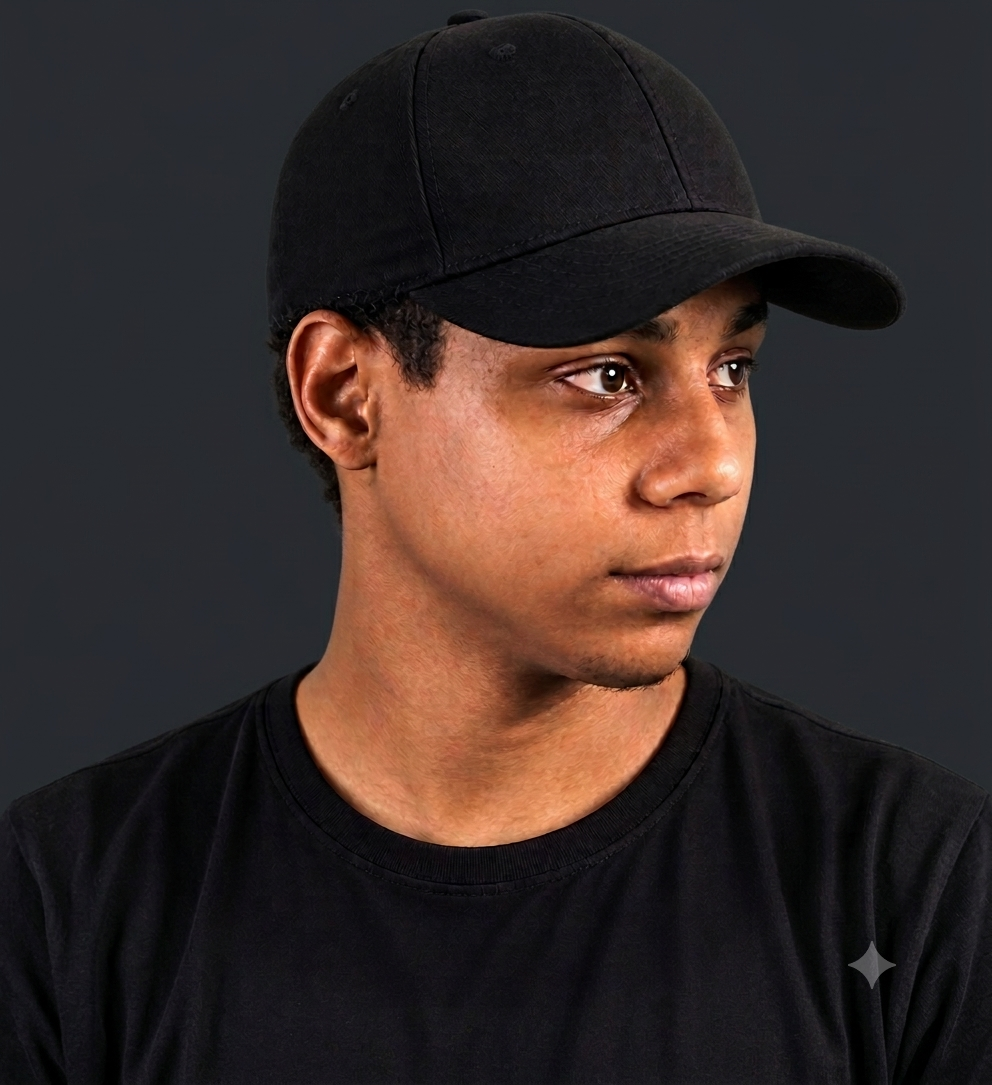
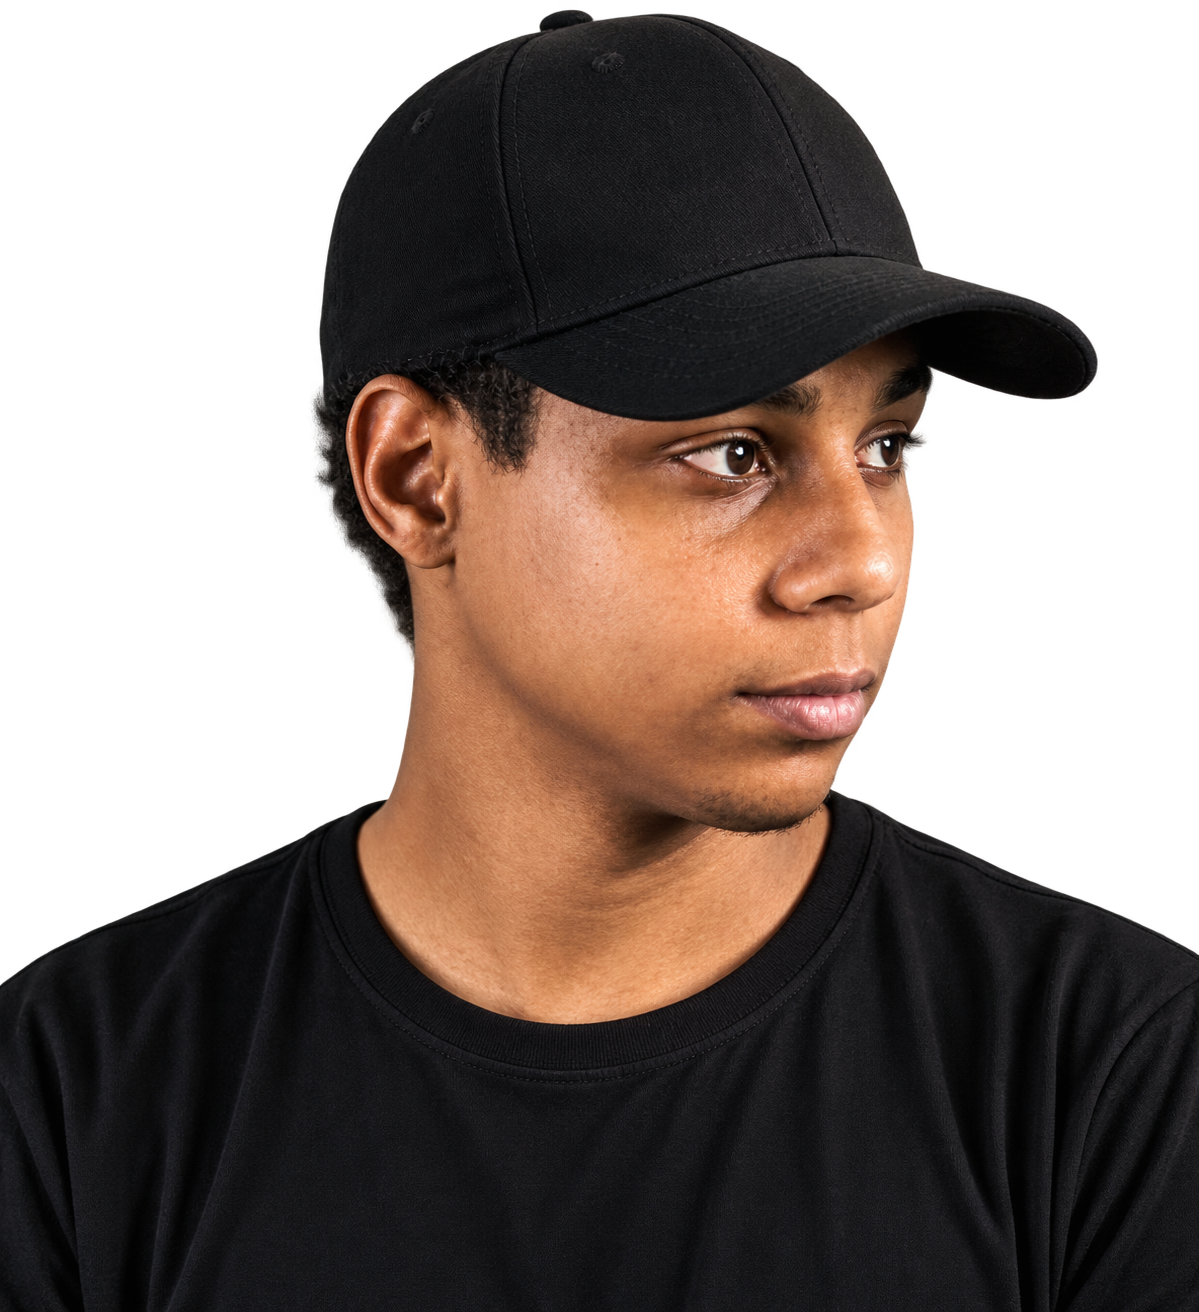
feat: troca foto do DJ por versao recortada sem marca d'agua

diff --git a/components/PressKit.tsx b/components/PressKit.tsx
@@ -71,8 +71,8 @@ export function PressKit() {
               <Image
                 src={links.photo}
                 alt="Tiramisu — DJ"
-                width={992}
-                height={1085}
+                width={1199}
+                height={1312}
                 priority
                 unoptimized
                 className="relative h-auto w-full max-h-[min(55vh,480px)] object-contain drop-shadow-[0_20px_50px_rgba(139,92,246,0.35)]"
